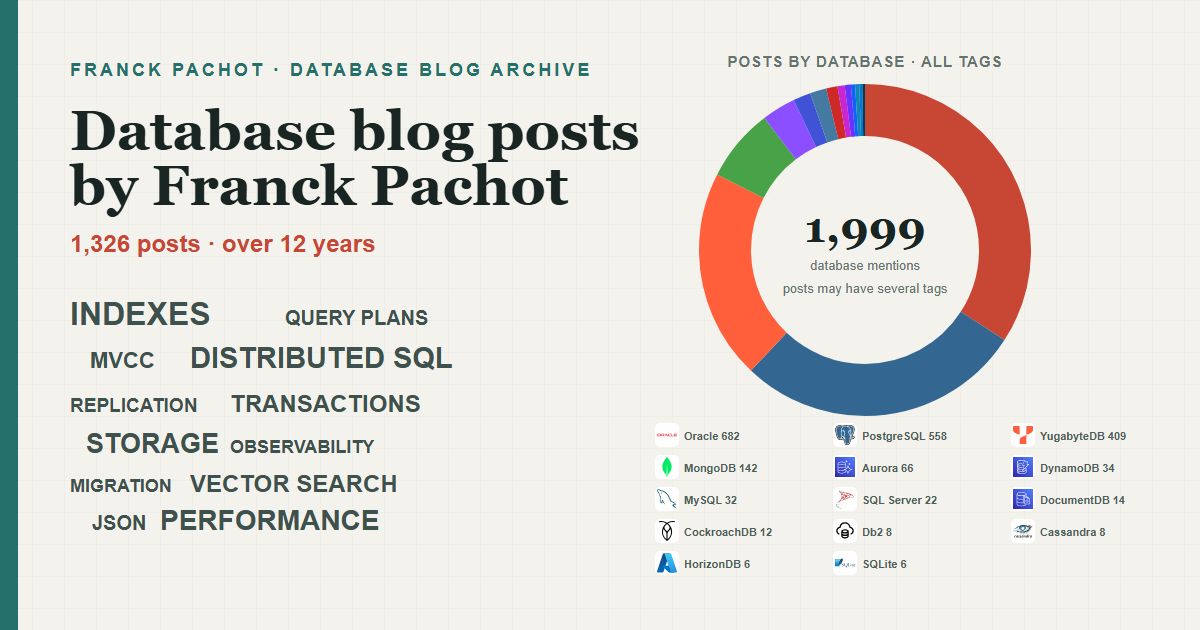
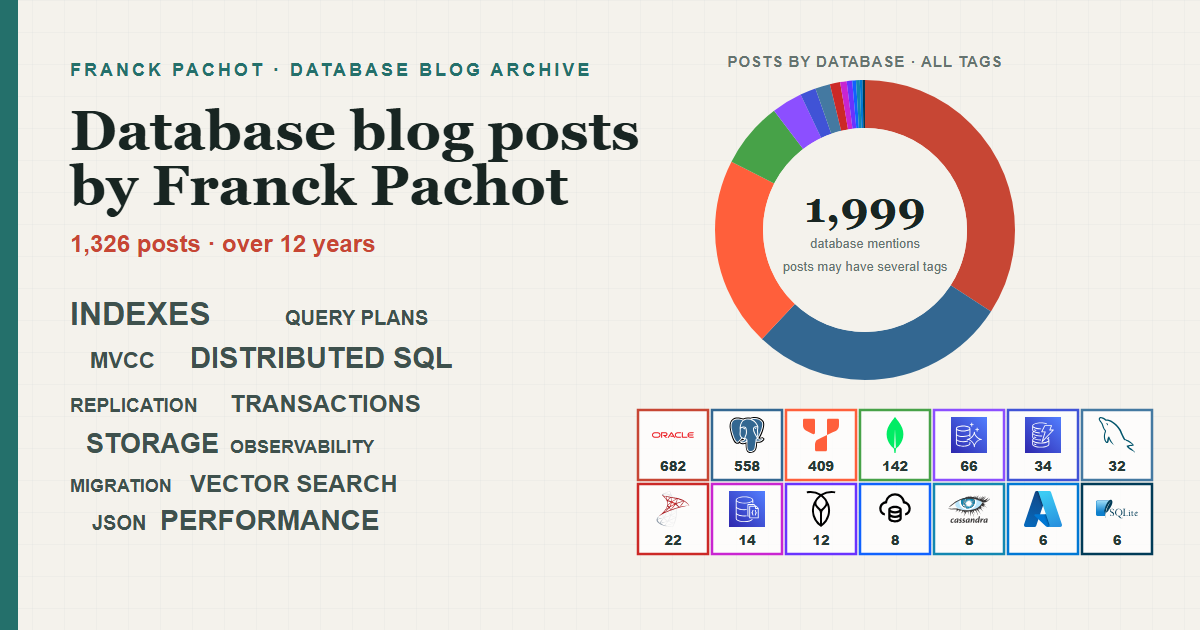
Refine social preview layout

diff --git a/util/build_publication_map.py b/util/build_publication_map.py
@@ -371,20 +371,13 @@ def write_social_preview(root: Path, catalog: dict[str, Any]) -> None:
         "Microsoft HorizonDB": "azure.svg",
         "SQLite": "sqlite.svg",
     }
-    short_names = {
-        "Oracle Database": "Oracle",
-        "Amazon Aurora": "Aurora",
-        "Amazon DynamoDB": "DynamoDB",
-        "Microsoft SQL Server": "SQL Server",
-        "Microsoft HorizonDB": "HorizonDB",
-    }
     initials = {
         "Oracle Database": "O", "PostgreSQL": "PG", "YugabyteDB": "YB", "MongoDB": "M",
         "Amazon Aurora": "A", "Amazon DynamoDB": "D", "MySQL": "MY", "Microsoft SQL Server": "MS",
         "DocumentDB": "D", "CockroachDB": "CR", "Db2": "2", "Cassandra": "C",
         "Microsoft HorizonDB": "H", "SQLite": "SQ",
     }
-    circumference = 2 * math.pi * 140
+    circumference = 2 * math.pi * 126
     offset = 0.0
     arcs = []
     legend = []
@@ -392,30 +385,31 @@ def write_social_preview(root: Path, catalog: dict[str, Any]) -> None:
         color = brand_colors[name]
         length = circumference * count / all_total
         arcs.append(
-            f'<circle cx="865" cy="250" r="140" fill="none" stroke="{color}" stroke-width="52" '
+            f'<circle cx="865" cy="230" r="126" fill="none" stroke="{color}" stroke-width="48" '
             f'stroke-dasharray="{length:.2f} {circumference - length:.2f}" stroke-dashoffset="{-offset:.2f}"/>'
         )
         offset += length
-        column = position % 3
-        row = position // 3
-        legend_x = 655 + column * 178
-        legend_y = 440 + row * 32
+        column = position % 7
+        row = position // 7
+        legend_x = 638 + column * 74
+        legend_y = 410 + row * 74
         mark = initials.get(name, name[:2].upper())
         logo_path = root / "home" / "database-logos" / logo_files[name]
         if logo_path.exists():
             logo = (
-                f'<rect x="{legend_x}" y="{legend_y - 17}" width="24" height="24" rx="5" fill="white" opacity=".92"/>'
-                f'<image href="database-logos/{logo_files[name]}" x="{legend_x + 2}" y="{legend_y - 15}" '
-                'width="20" height="20" preserveAspectRatio="xMidYMid meet"/>'
+                f'<image href="database-logos/{logo_files[name]}" x="{legend_x + 14}" y="{legend_y + 7}" '
+                'width="42" height="36" preserveAspectRatio="xMidYMid meet"/>'
             )
         else:
             logo = (
-                f'<g class="logo-mark"><rect x="{legend_x}" y="{legend_y - 16}" width="22" height="22" rx="6" fill="{color}"/>'
-                f'<text x="{legend_x + 11}" y="{legend_y - 1}" text-anchor="middle">{mark}</text></g>'
+                f'<g class="logo-mark"><rect x="{legend_x + 17}" y="{legend_y + 8}" width="36" height="34" fill="{color}"/>'
+                f'<text x="{legend_x + 35}" y="{legend_y + 30}" text-anchor="middle">{mark}</text></g>'
             )
         legend.append(
-            logo
-            + f'<text x="{legend_x + 29}" y="{legend_y}" class="legend">{html.escape(short_names.get(name, name))} {count:,}</text>'
+            f'<g class="logo-tile"><title>{html.escape(name)}: {count:,} posts</title>'
+            f'<rect x="{legend_x}" y="{legend_y}" width="70" height="70" fill="#fff" fill-opacity=".78" stroke="{color}" stroke-width="2.5"/>'
+            + logo
+            + f'<text x="{legend_x + 35}" y="{legend_y + 61}" text-anchor="middle" class="tile-count">{count:,}</text></g>'
         )
     svg = f'''<svg xmlns="http://www.w3.org/2000/svg" xmlns:xlink="http://www.w3.org/1999/xlink" width="1200" height="630" viewBox="0 0 1200 630">
   <defs>
@@ -426,8 +420,8 @@ def write_social_preview(root: Path, catalog: dict[str, Any]) -> None:
       .title {{ font-family: "Georgia", serif; font-size: 56px; font-weight: 700; }}
       .count {{ font-size: 24px; font-weight: 700; fill: #c74634; }}
       .word {{ font-weight: 700; fill: #3e514d; }}
-    .legend {{ font-size: 11px; font-weight: 700; fill: #4e5e5a; }}
-    .logo-mark text {{ font-size: 8px; font-weight: 800; fill: white; }}
+    .tile-count {{ font-size: 13px; font-weight: 800; fill: #273a36; }}
+    .logo-mark text {{ font-size: 9px; font-weight: 800; fill: white; }}
       .chart-label {{ font-size: 15px; font-weight: 700; letter-spacing: 1px; fill: #65736f; }}
       .chart-total {{ font-family: "Georgia", serif; font-size: 44px; font-weight: 700; }}
       .chart-note {{ font-size: 13px; fill: #65736f; }}
@@ -453,11 +447,11 @@ def write_social_preview(root: Path, catalog: dict[str, Any]) -> None:
   <text x="92" y="530" class="word" font-size="20">JSON</text>
   <text x="160" y="530" class="word" font-size="28">PERFORMANCE</text>
     <text x="865" y="67" text-anchor="middle" class="chart-label">POSTS BY DATABASE · ALL TAGS</text>
-    <g transform="rotate(-90 865 250)">{''.join(arcs)}</g>
-    <circle cx="865" cy="250" r="112" fill="#f4f2ec"/>
-    <text x="865" y="242" text-anchor="middle" class="chart-total">{all_total:,}</text>
-    <text x="865" y="270" text-anchor="middle" class="chart-note">database mentions</text>
-    <text x="865" y="293" text-anchor="middle" class="chart-note">posts may have several tags</text>
+    <g transform="rotate(-90 865 230)">{''.join(arcs)}</g>
+    <circle cx="865" cy="230" r="102" fill="#f4f2ec"/>
+    <text x="865" y="222" text-anchor="middle" class="chart-total">{all_total:,}</text>
+    <text x="865" y="248" text-anchor="middle" class="chart-note">database mentions</text>
+    <text x="865" y="271" text-anchor="middle" class="chart-note">posts may have several tags</text>
   {''.join(legend)}
 </svg>'''
     svg_path = root / "home" / "social-card.svg"
